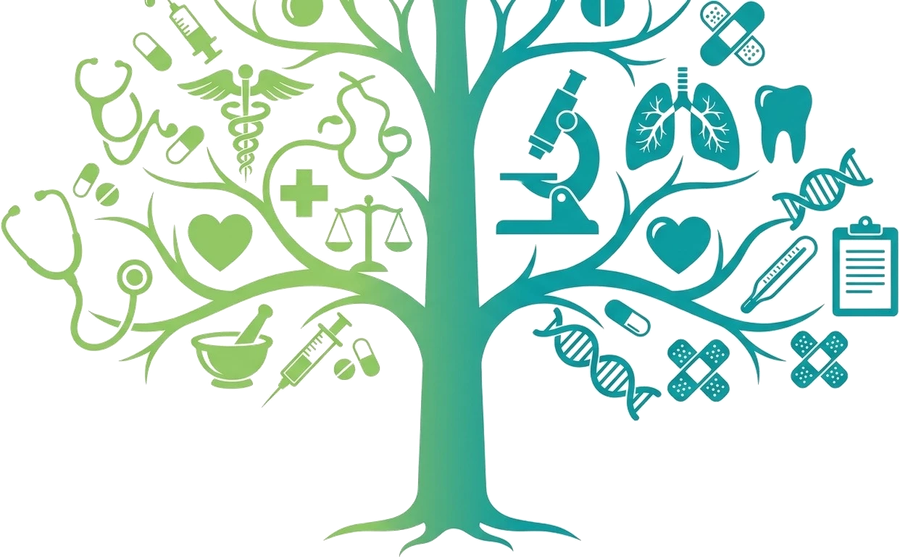
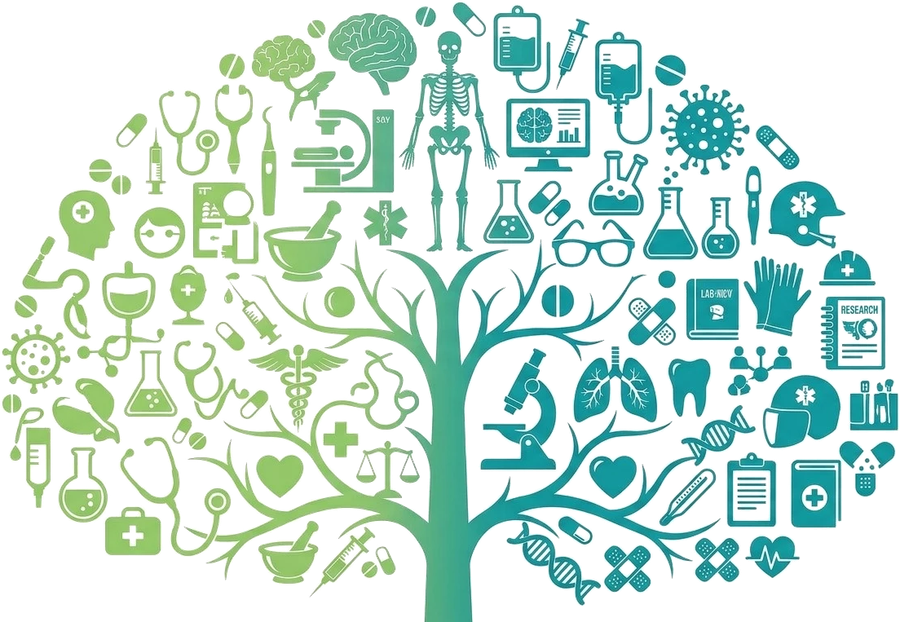
Certificate uses the full healthcare tree; Case Studies menu subtitle reads Real Hospital Projects

diff --git a/src/components/site/Header.tsx b/src/components/site/Header.tsx
@@ -31,7 +31,7 @@ const MENU: NavItem[] = [
     id: 'resources',
     label: 'Resources',
     items: [
-      { id: 'cases', label: 'Case Studies', href: '/case-studies', sub: 'Real Projects from Hospitals' },
+      { id: 'cases', label: 'Case Studies', href: '/case-studies', sub: 'Real Hospital Projects' },
       { id: 'library', label: 'Library', href: '/library', sub: 'Downloadable Toolkits, Guides and Documents' },
     ],
   },
